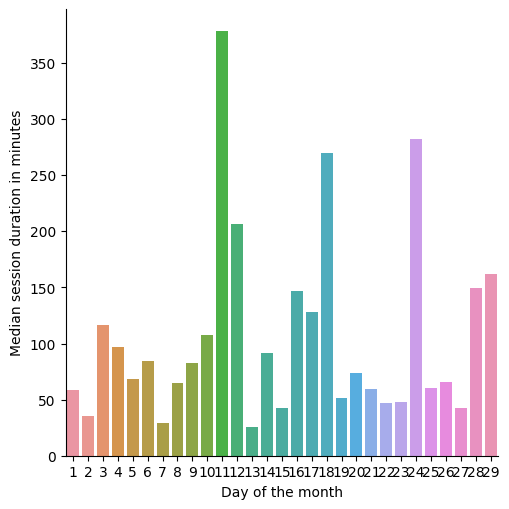
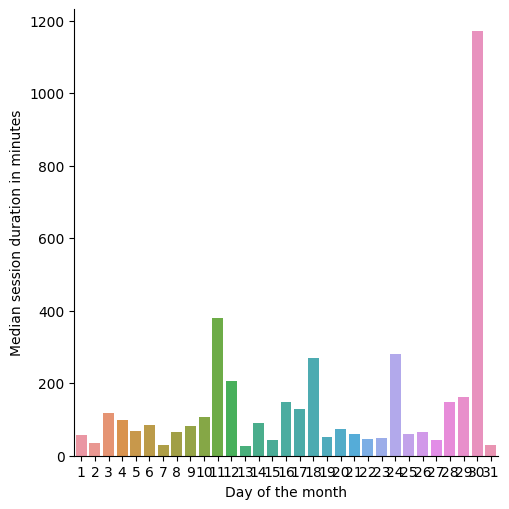
"Stats generated 2021-06-01"

Changed region(s): [[0.0589, 0.0295, 1.0, 1.0]]

diff --git a/all/2021/5/days/30/index.html b/all/2021/5/days/30/index.html
@@ -1,0 +1,29 @@
+<!DOCTYPE html>
+<html>
+  <head>
+    <meta charset="utf-8"/>
+    <title>30 May 2021</title>
+    <link rel="stylesheet" href="../../../../../styles.css"/>
+  </head>
+  <body>
+    <div id="container">
+      <nav>
+        <ul>
+          
+            <li><a href="../../">May 2021</a></li>
+            <li class="separator"></li>
+          
+          
+        </ul>
+      </nav>
+      <main>
+        <h1>30 May 2021</h1>
+        
+          <h2>Number of sessions per hour</h2>
+          <img src="sessions.png" alt="Number of sessions per hour"/>
+        
+        
+      </main>
+    </div>
+  </body>
+</html>

diff --git a/all/2021/index.html b/all/2021/index.html
@@ -93,9 +93,9 @@
                   
                     <td>5.0</td>
                   
-                    <td>133.0</td>
+                    <td>140.0</td>
                   
-                    <td>85.68792499999999</td>
+                    <td>85.25901557499999</td>
                   
                 </tr>
               

diff --git a/all/2021/5/index.html b/all/2021/5/index.html
@@ -166,6 +166,10 @@
               <li><a href="days/29/">29</a></li>
             
           
+            
+              <li><a href="days/30/">30</a></li>
+            
+          
         </ul>
       </nav>
       <main>
